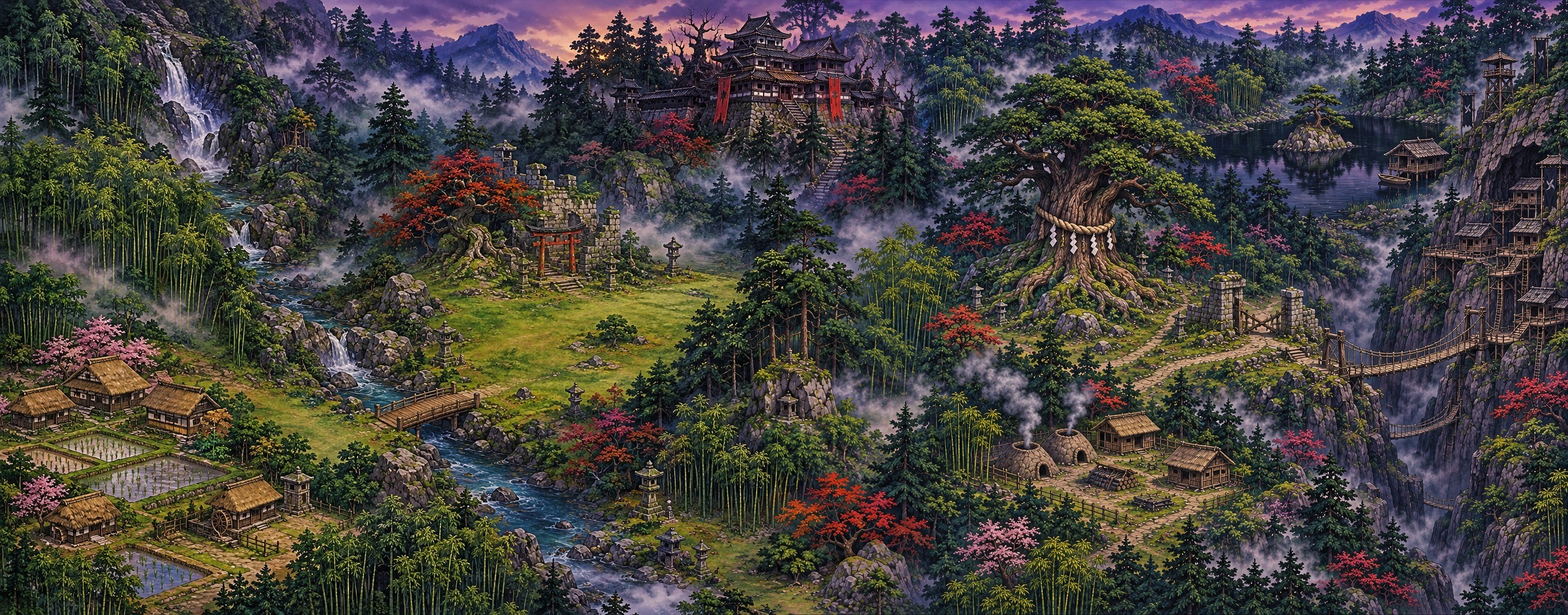
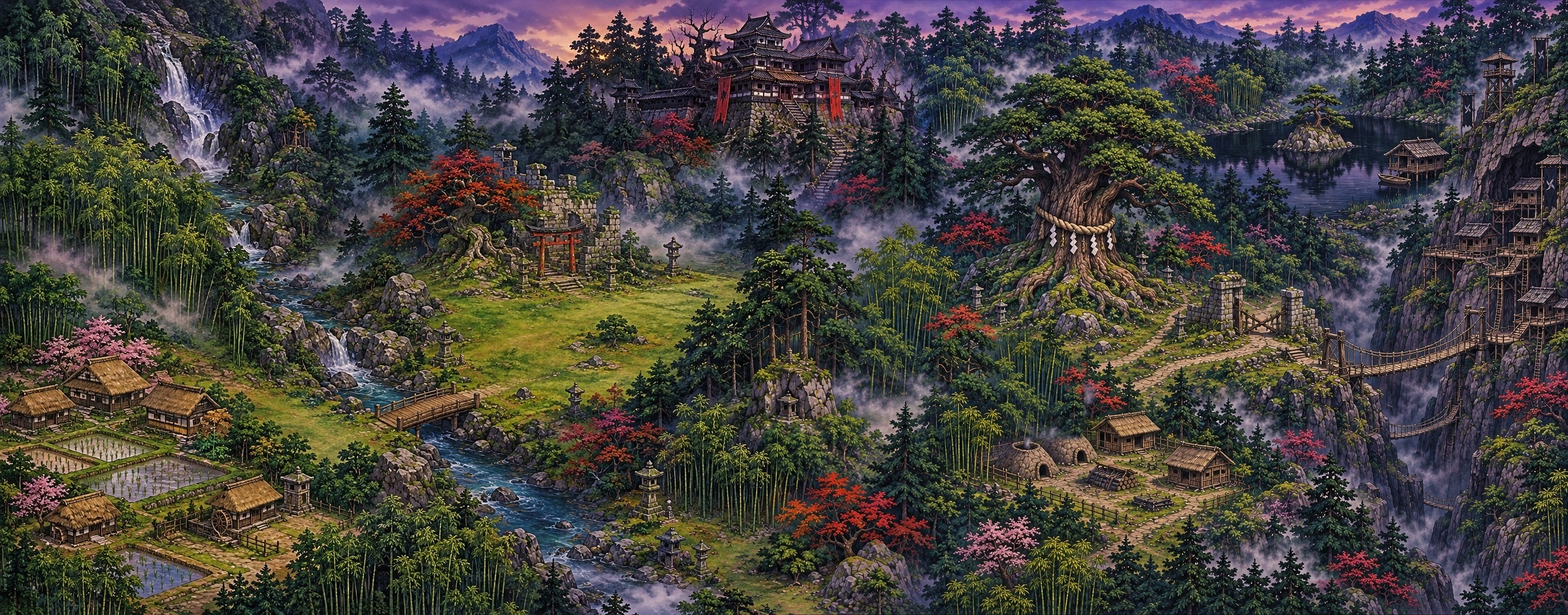
Дым печей целиком скриптовый (нарисованный стёрт с карты); туман больше не мерцает
Claude-Session: https://claude.ai/code/session_01JqUpyqddoJCmPqfiUgmopw

Changed region(s): [[0.5897, 0.5312, 0.7138, 0.7188]]

diff --git a/Assets/_Project/Scripts/Game/MapLife.cs b/Assets/_Project/Scripts/Game/MapLife.cs
@@ -181,9 +181,12 @@ namespace BladePath
             int a = (int)Mathf.Repeat(Mathf.Floor(f), span), b = (a + 1) % span;
             float kf = f - Mathf.Floor(f);
             if (a >= frames) a = span - a; if (b >= frames) b = span - b;
-            GUI.color = tint;
+            // ровный наплыв (без скачка плотности на смене кадра — иначе туман мерцает), кадры сглажены по времени
+            kf = kf * kf * (3f - 2f * kf);
+            float ab = tint.a * kf;
+            GUI.color = new Color(tint.r, tint.g, tint.b, tint.a * (1f - kf) / Mathf.Max(0.001f, 1f - ab));
             GUI.DrawTextureWithTexCoords(r, tex, new Rect((a % cols) / (float)cols, 1f - (a / cols + 1) / (float)rows, 1f / cols, 1f / rows));
-            GUI.color = new Color(tint.r, tint.g, tint.b, tint.a * kf);
+            GUI.color = new Color(tint.r, tint.g, tint.b, ab);
             GUI.DrawTextureWithTexCoords(r, tex, new Rect((b % cols) / (float)cols, 1f - (b / cols + 1) / (float)rows, 1f / cols, 1f / rows));
         }
 
@@ -332,7 +335,7 @@ namespace BladePath
                     if (!Vis(p)) continue;
                     float fw = f.z * k * 2f, fh = fw * 0.5f;
                     float a = 0.13f + 0.06f * Mathf.Sin(t * 0.21f + i * 2.3f);
-                    FlipCell(new Rect(p.x - fw * 0.5f, p.y - fh * 0.5f, fw, fh), fogSheet, 6, 5, 30, 2.5f, i * 3.7f, new Color(0.92f, 0.92f, 0.96f, a));
+                    FlipCell(new Rect(p.x - fw * 0.5f, p.y - fh * 0.5f, fw, fh), fogSheet, 6, 5, 30, 0.8f, i * 3.7f, new Color(0.92f, 0.92f, 0.96f, a));
                 }
             // стоячая вода: в разных местах по очереди проступает мягкий блик и гаснет (3–5 с), едва смещаясь
             if (glow != null)
@@ -380,18 +383,20 @@ namespace BladePath
                     Vector2 src = S(new Vector2(sm.x, sm.y));
                     if (!Vis(src)) continue;
                     float size = sm.z * k, side = sm.w * k;
-                    for (int p = 0; p < 12; p++)
+                    // нарисованный дым с картины стёрт (tools/map_extend/desmoke_kilns.py) — шлейф целиком даёт этот дым:
+                    // 16 плотных клубов, сплошной столб без просветов
+                    for (int p = 0; p < 16; p++)
                     {
-                        float run = t / 4.6f + p / 12f + si * 0.173f;
+                        float run = t / 4.6f + p / 16f + si * 0.173f;
                         float u = run - Mathf.Floor(run);
                         int seed = Mathf.FloorToInt(run) * 7 + p * 13 + si * 31;
                         // сначала столбом вверх, потом сносит вбок — как нарисовано на карте
                         float rise = size * (1f - (1f - u) * (1f - u * 0.4f));
                         float drift = side * Mathf.Pow(u, 1.8f) + Mathf.Sin(u * 3f + seed) * 0.04f * size;
-                        float sz = size * Mathf.Lerp(0.14f, 0.6f, Mathf.Sqrt(u));
+                        float sz = size * Mathf.Lerp(0.16f, 0.7f, Mathf.Sqrt(u));
                         // тает только в самом конце: клуб виден почти до верха столба — анимация тянется на всю длину нарисованного дыма
-                        float al = Mathf.Clamp01(u / 0.12f) * (1f - Mathf.Pow(u, 2.5f)) * 0.5f;
-                        GUI.color = new Color(0.62f, 0.61f, 0.63f, al);
+                        float al = Mathf.Clamp01(u / 0.12f) * (1f - Mathf.Pow(u, 2.5f)) * 0.78f;
+                        GUI.color = new Color(0.9f, 0.88f, 0.92f, al);
                         Rect pr = new Rect(src.x + drift - sz * 0.5f, src.y - rise - sz * 0.5f, sz, sz);
                         if (wisp != null)
                         {

diff --git a/tools/map_extend/desmoke_kilns.py b/tools/map_extend/desmoke_kilns.py
@@ -1,0 +1,44 @@
+import cv2, numpy as np
+R='bladepath/Assets/_Project/Resources/UI/map_wide_0.jpg'
+im=cv2.imread(R)
+x0,y0,x1,y1=1540,520,1840,740
+roi=im[y0:y1,x0:x1]
+hsv=cv2.cvtColor(roi,cv2.COLOR_BGR2HSV).astype(int)
+s,v=hsv[...,1],hsv[...,2]
+m=((s<70)&(v>95)).astype(np.uint8)
+poly=np.array([[1688,738],[1728,738],[1770,728],[1795,728],[1800,600],[1760,590],[1700,555],[1600,555],[1560,600],[1580,640],[1660,665],[1688,700]])-[x0,y0]
+pm=np.zeros_like(m); cv2.fillPoly(pm,[poly],1); m=m*pm
+m=cv2.morphologyEx(m,cv2.MORPH_CLOSE,np.ones((9,9),np.uint8))
+m=cv2.dilate(m,np.ones((11,11),np.uint8))
+# protect kilns (domes) — their tops at y>~728 near vents
+M=np.zeros(im.shape[:2],np.float32); M[y0:y1,x0:x1]=m
+M[728:,:]=0
+ys,xs=np.nonzero(M); bx0,by0,bx1,by1=xs.min(),ys.min(),xs.max()+1,ys.max()+1
+print('bbox',bx0,by0,bx1,by1)
+ring=cv2.dilate((M>0).astype(np.uint8),np.ones((15,15),np.uint8))-(M>0).astype(np.uint8)
+best=[]
+H,W=im.shape[:2]
+for dy in range(-260,261,10):
+    for dx in range(-420,421,10):
+        if abs(dx)<120 and abs(dy)<120: continue
+        sx0,sy0,sx1,sy1=bx0+dx,by0+dy,bx1+dx,by1+dy
+        if sx0<0 or sy0<0 or sx1>W or sy1>H: continue
+        src=im[sy0:sy1,sx0:sx1].astype(np.float32); dst=im[by0:by1,bx0:bx1].astype(np.float32)
+        r=ring[by0:by1,bx0:bx1]>0
+        # source must itself be smoke-free: low share of greyish pixels
+        hs=cv2.cvtColor(im[sy0:sy1,sx0:sx1],cv2.COLOR_BGR2HSV)
+        grey=((hs[...,1]<60)&(hs[...,2]>100)).mean()
+        if grey>0.06: continue
+        d=np.abs(src[r]-dst[r]).mean()
+        best.append((d,dx,dy))
+best.sort(); print(best[:8])
+for n,(d,dx,dy) in enumerate(best[:4]):
+    out=im.copy().astype(np.float32)
+    a=cv2.GaussianBlur(M,(0,0),5); a=np.clip(a*1.6,0,1); a[M>0]=np.maximum(a[M>0],0.97)
+    a=a[...,None]
+    shifted=np.roll(np.roll(im,-dy,0),-dx,1).astype(np.float32)
+    out=out*(1-a)+shifted*a
+    out=out.astype(np.uint8)
+    cv2.imwrite('smoke/opt%d.jpg'%n,cv2.resize(np.hstack([im[y0-20:y1+30,x0-40:x1+40],out[y0-20:y1+30,x0-40:x1+40]]),None,fx=1.4,fy=1.4))
+    if n==0: cv2.imwrite('smoke/best.png',out)
+np.save('smoke/M.npy',M)

diff --git a/Assets/_Project/Scripts/Game/MapScreen.cs b/Assets/_Project/Scripts/Game/MapScreen.cs
@@ -895,9 +895,12 @@ namespace BladePath
             float k = f - Mathf.Floor(f);
             if (pingPong) { if (a >= frames) a = span - a; if (b >= frames) b = span - b; }
             Color oc = GUI.color;
-            GUI.color = tint;
+            // ровный наплыв: нижний кадр ослаблен так, чтобы суммарная плотность не прыгала на смене кадра
+            // (раньше нижний шёл в полную силу + верхний сверху → к концу кадра гуще, затем скачок — туман «мерцал»)
+            float ab = tint.a * k;
+            GUI.color = new Color(tint.r, tint.g, tint.b, tint.a * (1f - k) / Mathf.Max(0.001f, 1f - ab));
             GUI.DrawTextureWithTexCoords(r, tex, FlipCell(a, cols, rows));
-            GUI.color = new Color(tint.r, tint.g, tint.b, tint.a * k);
+            GUI.color = new Color(tint.r, tint.g, tint.b, ab);
             GUI.DrawTextureWithTexCoords(r, tex, FlipCell(b, cols, rows));
             GUI.color = oc;
         }
